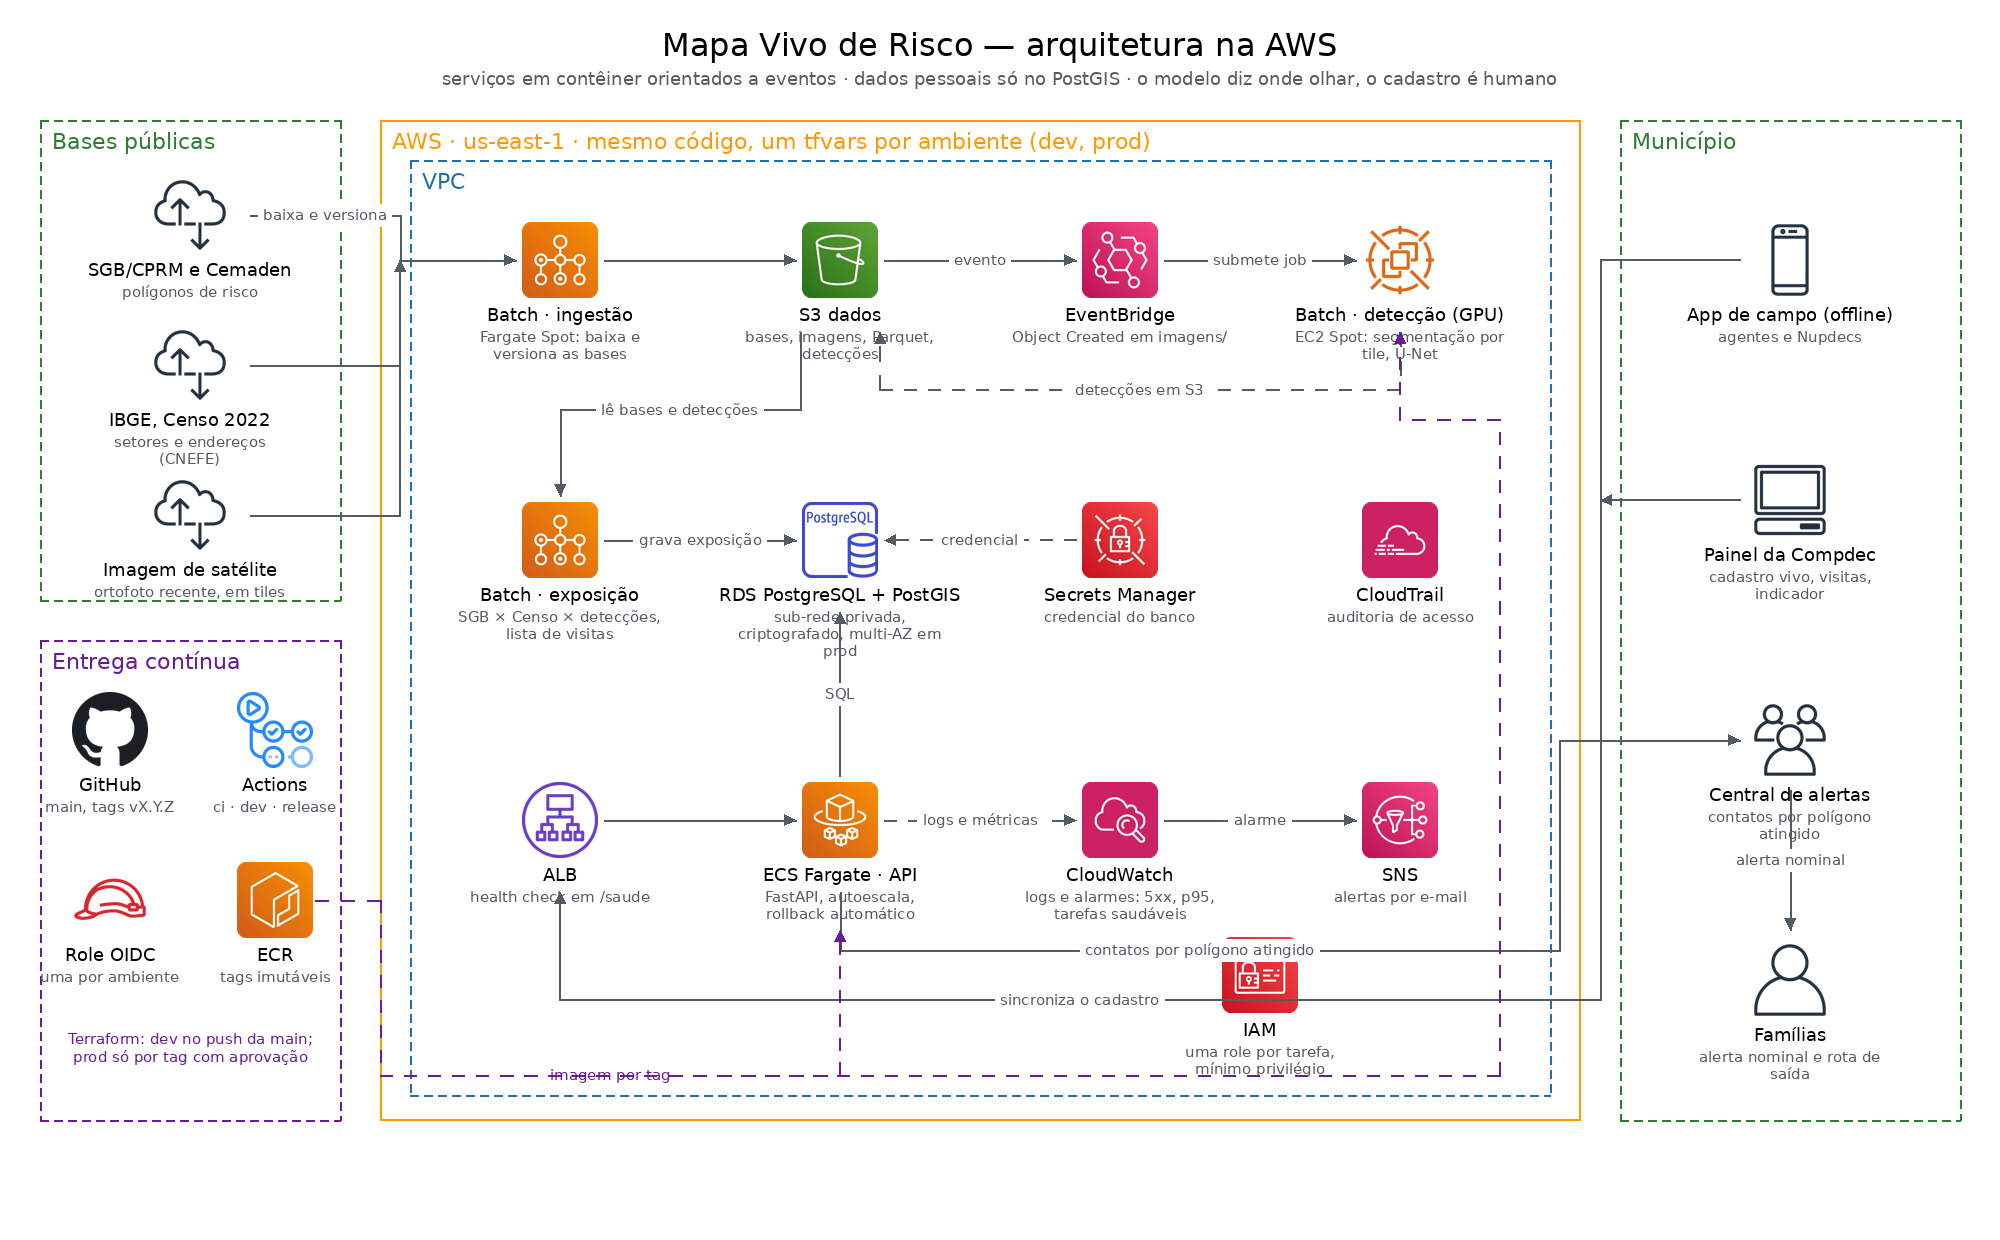
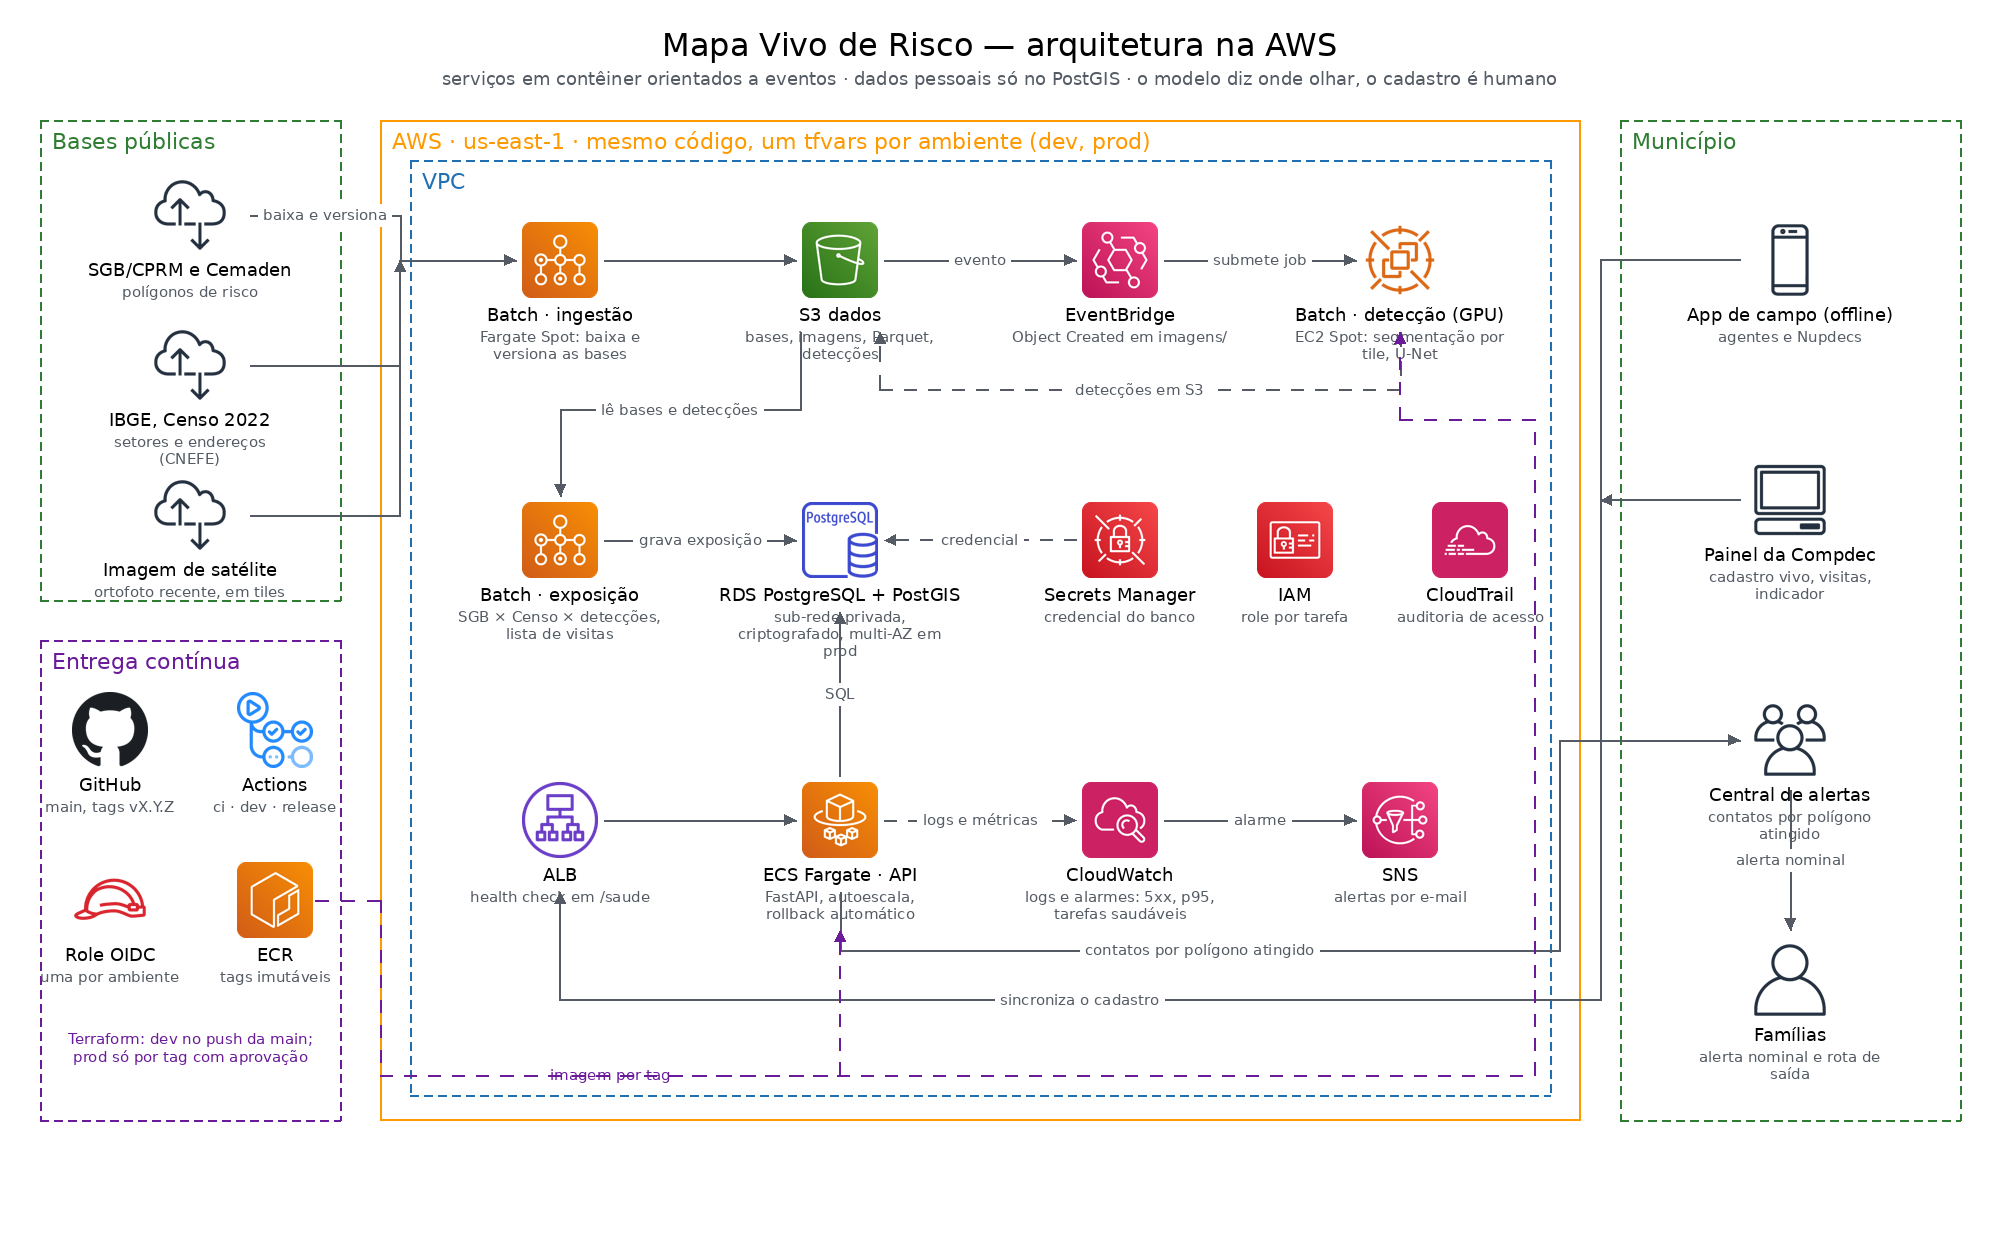
CI/CD: jobs chamadores concedem id-token ao workflow reutilizável; deploy, release e plan gated por DEPLOY_ATIVO até o bootstrap da AWS; desenho sem sobreposições

Changed region(s): [[0.62, 0.3984, 0.775, 0.521], [0.589, 0.7661, 0.651, 0.8887]]

diff --git a/docs/gerar_arquitetura.py b/docs/gerar_arquitetura.py
@@ -110,14 +110,14 @@ icone("aws/compute", "ec2-spot-instance", X4, Y1, "Batch · detecção (GPU)", "
 icone("aws/compute", "batch", X1, Y2, "Batch · exposição", "SGB × Censo × detecções, lista de visitas")
 icone("aws/database", "rds-postgresql-instance", X2, Y2, "RDS PostgreSQL + PostGIS", "sub-rede privada, criptografado, multi-AZ em prod")
 icone("aws/security", "secrets-manager", X3, Y2, "Secrets Manager", "credencial do banco")
-icone("aws/management", "cloudtrail", X4, Y2, "CloudTrail", "auditoria de acesso")
+icone("aws/management", "cloudtrail", 1470, Y2, "CloudTrail", "auditoria de acesso")
 
 icone("aws/network", "elb-application-load-balancer", X1, Y3, "ALB", "health check em /saude")
 icone("aws/compute", "fargate", X2, Y3, "ECS Fargate · API", "FastAPI, autoescala, rollback automático")
 icone("aws/management", "cloudwatch", X3, Y3, "CloudWatch", "logs e alarmes: 5xx, p95, tarefas saudáveis")
 icone("aws/integration", "simple-notification-service-sns", X4, Y3, "SNS", "alertas por e-mail")
 
-icone("aws/security", "identity-and-access-management-iam", 1260, Y4, "IAM", "uma role por tarefa, mínimo privilégio")
+icone("aws/security", "identity-and-access-management-iam", 1295, Y2, "IAM", "role por tarefa")
 
 # município (direita)
 caixa(1620, 120, 1960, 1120, "Município", VERDE, tracejada=True)
@@ -155,7 +155,7 @@ seta([(X2, Y3 + 72), (X2, 950), (1560, 950), (1560, 740), (1740, 740)], "contato
 seta([(1790, 790), (1790, 930)], "alerta nominal")
 # CI/CD -> ECR -> serviços
 seta([(315, 900), (380, 900), (380, 1075), (X2, 1075), (X2, Y3 + 110)], "imagem por tag", cor=ROXO, pont=True, onde=2)
-seta([(380, 1075), (1500, 1075), (1500, Y1 + 160), (X4, Y1 + 160), (X4, Y1 + 72)], cor=ROXO, pont=True)
+seta([(380, 1075), (1535, 1075), (1535, Y1 + 160), (X4, Y1 + 160), (X4, Y1 + 72)], cor=ROXO, pont=True)
 
 img.save(SAIDA, optimize=True)
 print(SAIDA, img.size)

diff --git a/docs/infra.md b/docs/infra.md
@@ -20,6 +20,9 @@ feature/x ──PR──▶ main ──push──▶ ci ──▶ deploy-dev (im
 PR em infra/ ──▶ terraform-plan (comenta o plan de dev no PR)
 ```
 
+Os workflows que tocam a AWS (`deploy-dev`, `release`, `terraform-plan`) só rodam quando a variável de repositório
+`DEPLOY_ATIVO` for `true`; até o bootstrap da conta eles aparecem como pulados, não como falha.
+
 Workflows em `.github/workflows`: `ci.yml`, `publicar-imagens.yml` (reutilizável), `deploy-dev.yml`, `release.yml`,
 `terraform-plan.yml`. Segredos do repositório: `AWS_ROLE_ARN_DEV` e `AWS_ROLE_ARN_PROD` (ARNs das roles que o
 Terraform cria no módulo `cicd`). Environments do GitHub: `dev` sem revisor, `prod` com revisor obrigatório.
